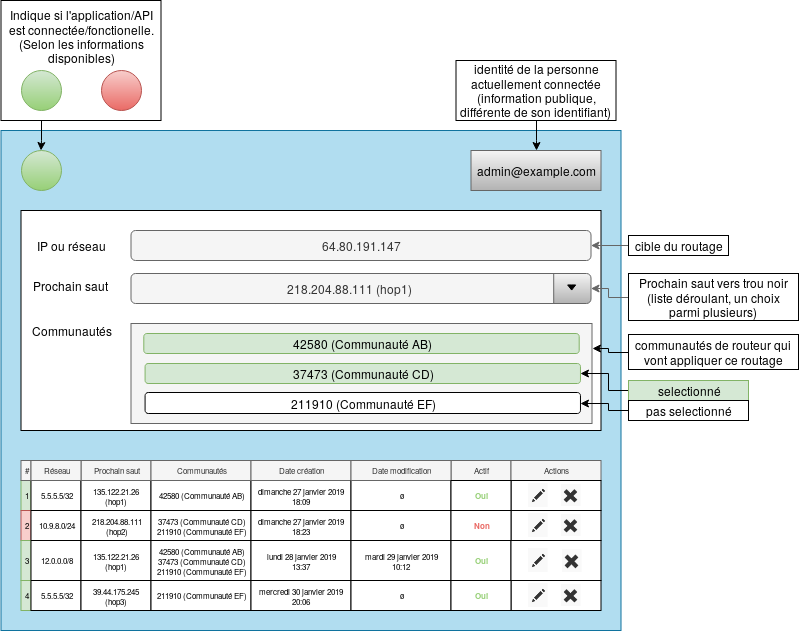
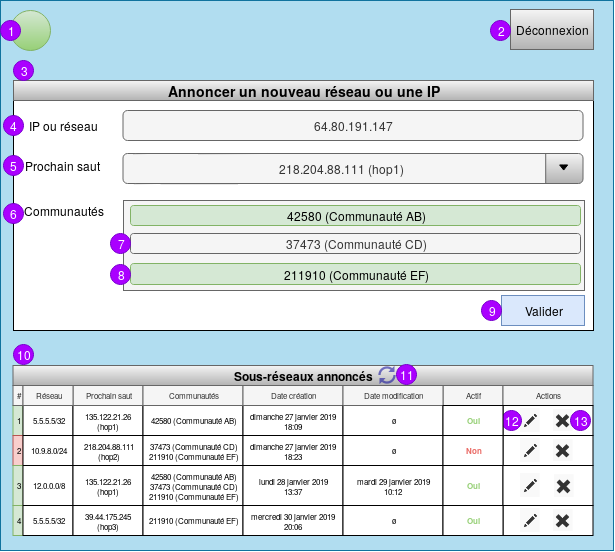
FIX : change name of images and add it to git

diff --git a/reports/chapter-requirements.tex b/reports/chapter-requirements.tex
@@ -74,10 +74,10 @@ Une page d'authentification permettra de restreindre l'accès de l'application e
 \subsection{Interface utilisateur}
 \label{sssec:ui}
 
-Pour permettre une gestion plus simplifiée des différentes fonctions demandées tout en gardant un visuel sur la situation actuelle, une interface graphique est nécessaire. 
+Pour permettre une gestion plus simplifiée des différentes fonctions demandées tout en gardant un visuel sur la situation actuelle, une interface graphique est nécessaire.
 
 \begin{figure}[H]
-    \includegraphics[width=\textwidth]{./medias/ui_interface4.png}
+    \includegraphics[width=\textwidth]{./medias/ui_interface.png}
     \caption{Prototype interface utilisateur}
     \label{fig:ui_interfaces}
 \end{figure}
@@ -89,7 +89,7 @@ Il faut indiquer à l'utilisateur si le client est actuellement connecté à l'A
 Le client vérifie périodiquement (chaque seconde) qu'il est toujours connecté à l'API en faisant une requête (rapide).
 S'il reçoit une réponse, le voyant coloré deviens vert.
 Dans le cas où il ne recevrait pas de réponse, le voyant coloré deviens rouge jusqu'au rétablissement de la connexion.\newline
- 
+
 \textbf{Déconnexion} (2)\newline
 Permet à un utilisateur authentifié de se déconnecter.
 Dans le cas où il existerait plusieurs compte utilisateur, il serait possible d'afficher l'identité de l'utilisateur actuel à cet emplacement.\newline
@@ -131,7 +131,7 @@ Les sous-réseaux pourrait être trié de deux manières, du plus récent au plu
 Si les sous-réseaux sont triés du plus ancien au plus récent alors l'insertion d'un nouveau sous-réseau ne provoquera pas de décalage. Mais s'il y a beaucoup de sous-réseaux alors accéder à ce nouveau sous-réseau sera plus pénible.
 
 % récent -> ancien : accéder à ancien est pénible ET insérer un élément fait lagger proportionnellement à la taille de la liste
-Si les sous-réseaux sont triés du plus récent au plus ancien alors l'insertion d'un nouveau sous-réseau et son affichage provoquera un décalage de tout les éléments. Mais s'il y a beaucoup de sous-réseaux alors accéder à un ancien sous-réseau sera plus pénible. 
+Si les sous-réseaux sont triés du plus récent au plus ancien alors l'insertion d'un nouveau sous-réseau et son affichage provoquera un décalage de tout les éléments. Mais s'il y a beaucoup de sous-réseaux alors accéder à un ancien sous-réseau sera plus pénible.
 
 %3 : affichage du contenu
 Deux types d'affichage seraient possible, une liste sans-limite ou une liste paginée.
@@ -156,7 +156,7 @@ La liste des sous-réseaux annoncés affiche l'ID ("\#"), le réseau attaquant a
     \item Actualisation des "sous-réseaux annoncés" par l'intermédiaire d'un bouton.%7
     \item Modification d'un "sous-réseaux annoncés" par l'intermédiaire d'un bouton.%8
     \item Suppression d'un "sous-réseaux annoncés" par l'intermédiaire d'un bouton.%9
-    
+
 \end{itemize}
 \subparagraph{Résultat obtenu :}
     \begin{itemize}
@@ -171,7 +171,7 @@ La liste des sous-réseaux annoncés affiche l'ID ("\#"), le réseau attaquant a
     \item Un message d'erreur apparaît directement dans la page.%6
     \item Une fenêtre contenant les informations de la route à modifier apparaît et demande une confirmation pour la modification. Ces informations seront éditables dans cette fenêtre. Si la modification est confirmée alors la fenêtre disparaîtra, appliquera la modification et la liste de "Sous-réseaux annoncés" sera mise à jour.%8
     \item Une fenêtre contenant les informations de la route à supprimer apparaît et demande une confirmation pour la modification. Si la suppression est confirmée alors la fenêtre disparaîtra, appliquera la suppression et la liste de "Sous-réseaux annoncés" sera mise à jour.%9
-    
+
 \end{itemize}
 \subparagraph{Conclusion :}Ce besoin est correctement rempli.
 
@@ -187,7 +187,7 @@ La liste des commandes ExaBGP sont :
         "file_missing":false
     }
     \end{minted}
-    
+
     \item GET /api/exabgp/command{?action} (Execute une commande exaBGP)
     \begin{minted}{js}
     # Success:
@@ -202,14 +202,14 @@ La liste des commandes ExaBGP sont :
         "msg":"The reason why it failed"
     }
     \end{minted}
-    
+
     \item GET /api/exabgp/commands (Donne la liste des commandes de exaBGP)
     \begin{minted}{js}
      [
     "reload"
     ]
     \end{minted}
-    
+
     \item GET /api/communities (Donne la liste des communities valides)
     \begin{minted}{js}
     {
@@ -218,7 +218,7 @@ La liste des commandes ExaBGP sont :
         "64511:123":"Baz",
     }
     \end{minted}
-    
+
     \item GET /api/next\_hops (Donne la liste des next\_hops valides)
     \begin{minted}{js}
     {
@@ -275,7 +275,7 @@ Pour se baser sur l'architecture REST, nous organiserons nos URL en conséquence
             "human_modified_at":null
         }
     }
-    
+
     # Failure:
     {
         "success":false,
@@ -312,7 +312,7 @@ Pour se baser sur l'architecture REST, nous organiserons nos URL en conséquence
         "human_modified_at":"Thu, 02 Jul 2015 10:15:55 GMT"
     }
     \end{minted}
-    
+
     \item PUT /api/routes/1 (Remplacer la route 1)
     \begin{minted}{js}
     # Success:
@@ -340,11 +340,11 @@ Pour se baser sur l'architecture REST, nous organiserons nos URL en conséquence
         "msg":"The reason why it failed"
     }
     \end{minted}
-    
+
     \item PATCH /api/routes/1 (Modifier la route 1)
     \begin{minted}{js}
     \end{minted}
-    
+
     \item DELETE /api/routes/1 (Supprimer la route 1)
     \begin{minted}{js}
     # Success:
@@ -352,14 +352,14 @@ Pour se baser sur l'architecture REST, nous organiserons nos URL en conséquence
         "success":true,
         "msg":"Network successfully deleted."
     }
-    
+
     # Failure:
     {
         "success":false,
         "msg":"The reason why it failed"
     }
     \end{minted}
-    
+
 \end{itemize}
 
 \subparagraph{Protocole de test :}
@@ -391,7 +391,7 @@ Nous mettrons en cache les communautés, les hops, la liste des routes existante
 %\subsubsection{Système en couches}
 
 \subsubsection{Code à la demande}
-L'architecture REST propose dans son modèle une partie "code à la demande" malheureusement nous n'implémenterons sûrement pas cette partie car trop difficile à mettre en place. Cette partie réduit souvent la visibilité dans le projet et dois répondre aux contraintes REST, c'est pourquoi elle est souvent désignée comme optionnelle lorsque l'on suit l'architecture REST. Cependant si le projet était repris ou si nous avions le temps, il pourrais être intéressant d'implémenter ces fonctionnalitées en code à la demande :  
+L'architecture REST propose dans son modèle une partie "code à la demande" malheureusement nous n'implémenterons sûrement pas cette partie car trop difficile à mettre en place. Cette partie réduit souvent la visibilité dans le projet et dois répondre aux contraintes REST, c'est pourquoi elle est souvent désignée comme optionnelle lorsque l'on suit l'architecture REST. Cependant si le projet était repris ou si nous avions le temps, il pourrais être intéressant d'implémenter ces fonctionnalitées en code à la demande :
 \begin{itemize}
     \item Implémenter la possibilité d'exécuter des commandes lié à des fonctionnalité non relié à l'interface.
     \item L'interface de l'utilisateur sera implémentée en anglais. Une option pour traduire l'interface en français pourra être implémentée par la suite.
@@ -403,34 +403,34 @@ Voici les tables que nous mettrons en place sur SQLite dans un premier temps pou
 
 \vspace{2em}
 
-\begin{tabular}{|l|l|l|l|l|l|l|} 
+\begin{tabular}{|l|l|l|l|l|l|l|}
    \hline
     Table & Champ & Type & Interclassement & Attributs & Null & Défaut \\
     \hline
         Security & id & int &  &  & Non & 1 \\
-    \cline{2-7} 
+    \cline{2-7}
          & username & varchar & utf8\_unicode\_ci & & Non & admin \\
-    \cline{2-7} 
+    \cline{2-7}
          & password & varchar & utf8\_unicode\_ci & & Non & Aucun(e) \\
-    \cline{2-7} 
+    \cline{2-7}
          & salt & varchar & utf8\_unicode\_ci & & Non & Aucun(e) \\
-    \cline{2-7} 
+    \cline{2-7}
          & mail & varchar & utf8\_unicode\_ci & & Non & Aucun(e) \\
     \hline
         Route & id & int &  &  & Non & Aucun(e)\\
-    \cline{2-7} 
+    \cline{2-7}
          & network & varchar & utf8\_unicode\_ci & & Non & Aucun(e) \\
-    \cline{2-7} 
+    \cline{2-7}
          & mask & varchar & utf8\_unicode\_ci & & Non & Aucun(e) \\
-    \cline{2-7} 
-         & next\_hop & varchar & utf8\_unicode\_ci & & Oui & Aucun(e) \\ 
-    \cline{2-7} 
+    \cline{2-7}
+         & next\_hop & varchar & utf8\_unicode\_ci & & Oui & Aucun(e) \\
+    \cline{2-7}
          & community & int ou varchar & utf8\_unicode\_ci & & Non & Aucun(e) \\
-    \cline{2-7} 
+    \cline{2-7}
          & enabled & bool &  & & Non & True \\
-    \cline{2-7} 
+    \cline{2-7}
          & created & datetime &  & & Non & Aucun(e) \\
-    \cline{2-7} 
+    \cline{2-7}
          & modified & datetime &  & & Non & Aucun(e) \\
     \hline
 \end{tabular}
@@ -459,7 +459,7 @@ Voici les tables que nous mettrons en place sur SQLite dans un premier temps pou
 \section{Diagramme}
 
 \begin{figure}[H]
-    \includegraphics[width=\textwidth]{./medias/use_cases3.png}
+    \includegraphics[width=\textwidth]{./medias/use_cases.png}
     \caption{Diagramme d'utilisation de l'application}
     \label{fig:use_cases}
 \end{figure}

diff --git a/reports/report.tex b/reports/report.tex
@@ -17,7 +17,7 @@
 
 \usepackage{pgfgantt}
 
-%%% Bibliograpy %%%
+%%% Bibliography %%%
 \bibliographystyle{alpha}
 
 %%% Configure minted package %%%
